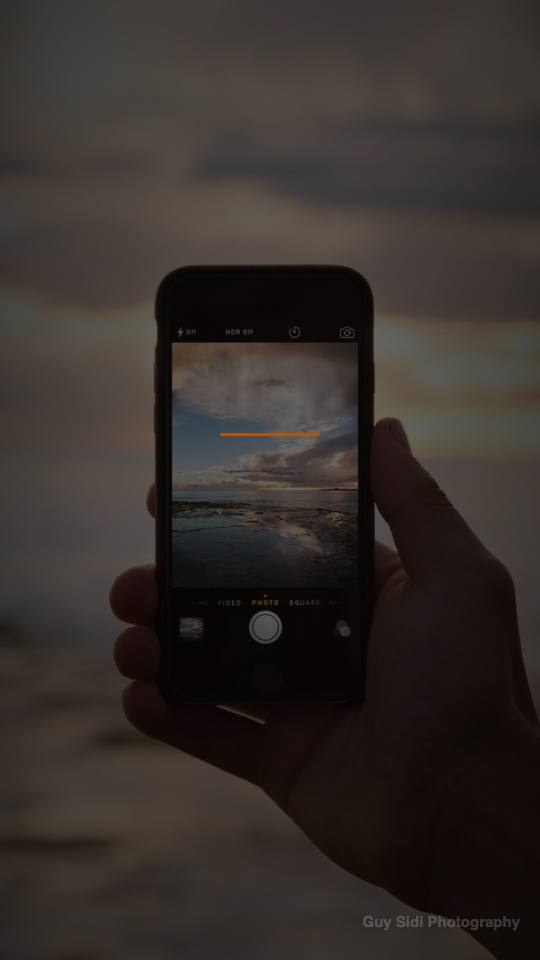
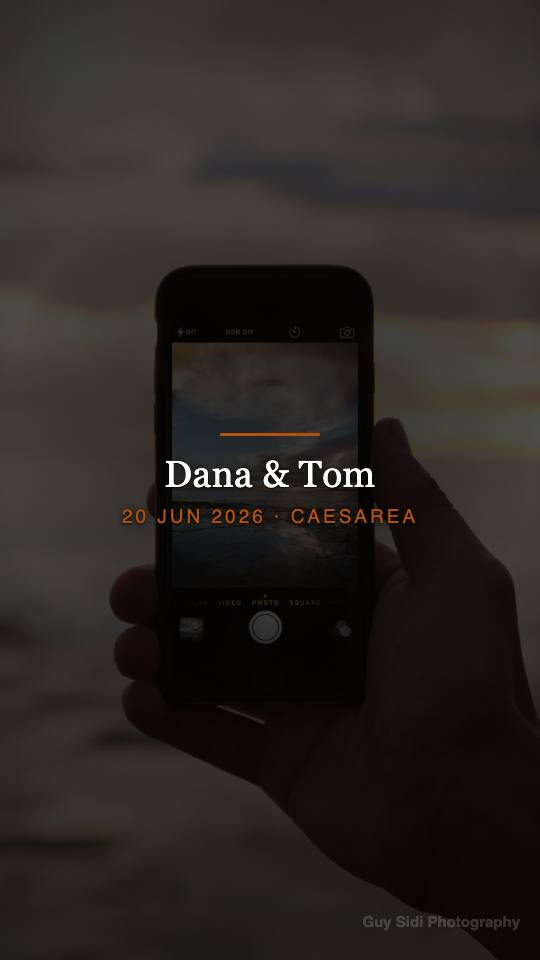
Story Studio: creative-review cycle 2 — fix editorial title/outro not rendering + legibility
Corroborated by 2 of 3 re-reviewers: the editorial (wedding) opening + outro
title was invisible. Root cause: the title's fade-entrance transform is 'none',
so it painted as an in-flow element BELOW the absolutely-positioned cover image
+ scrim (CSS stacking), while a transformed title (cinematic scale) painted
above — that mismatch also explained why the editorial accent line (which has a
transform) showed but the title didn't. Fix: title/subtitle/logo get
position:relative + zIndex; add a strong text-shadow + a darker centered scrim
so titles are legible over any hero photo. Regression test added.

Re-review scores after cycle 1 (before this fix): Corporate 7.2, Concert 7.3
avg across 3 reviewers; Wedding 5.9 (dragged by this title bug). Fix verified
locally: editorial opening now renders 'Dana & Tom' + date clearly.

45 tests pass, tsc + build OK.

Changed region(s): [[0.1778, 0.3125, 0.8296, 0.5938], [0.3556, 0.2188, 0.6519, 0.2812], [0.4741, 0.625, 0.5333, 0.6875]]

diff --git a/gallery-web/story-studio-remotion/StoryStudioVideo.tsx b/gallery-web/story-studio-remotion/StoryStudioVideo.tsx
@@ -291,8 +291,11 @@ const CardLayer: React.FC<{
             style={{
               background:
                 d.align === "center"
-                  ? "radial-gradient(ellipse at center, rgba(0,0,0,0.2) 30%, rgba(0,0,0,0.62) 100%)"
-                  : "linear-gradient(to top, rgba(0,0,0,0.72) 18%, rgba(0,0,0,0.25) 55%, rgba(0,0,0,0.45) 100%)",
+                  ? // Centered (editorial) titles need a darker backing behind
+                    // the CENTER — the old 0.2 center let white type vanish over
+                    // a bright sky. Darken the middle band under the title.
+                    "radial-gradient(ellipse 90% 55% at 50% 45%, rgba(0,0,0,0.62) 0%, rgba(0,0,0,0.4) 55%, rgba(0,0,0,0.66) 100%)"
+                  : "linear-gradient(to top, rgba(0,0,0,0.72) 18%, rgba(0,0,0,0.28) 55%, rgba(0,0,0,0.5) 100%)",
             }}
           />
         </>
@@ -300,11 +303,18 @@ const CardLayer: React.FC<{
       {template === "cinematic-energy" ? <Vignette /> : null}
       {accentEl}
       {card.showLogo && brand.logoUrl ? (
-        <Img src={brand.logoUrl} style={{ maxWidth: 300, maxHeight: 150, marginBottom: 30, objectFit: "contain" }} />
+        <Img src={brand.logoUrl} style={{ position: "relative", zIndex: 2, maxWidth: 300, maxHeight: 150, marginBottom: 30, objectFit: "contain" }} />
       ) : null}
       {card.title ? (
         <div
           style={{
+            // position:relative lifts the title above the absolutely-positioned
+            // cover image + scrim. Without it, a title whose entrance transform
+            // is "none" (editorial fade) paints BELOW the scrim and vanishes,
+            // while a transformed title (cinematic scale) does not — that mismatch
+            // was the "editorial title/outro not rendering" bug.
+            position: "relative",
+            zIndex: 2,
             color: "#fff",
             fontSize: d.titleSize,
             fontWeight: d.titleWeight,
@@ -316,6 +326,8 @@ const CardLayer: React.FC<{
             direction: rtlTitle ? "rtl" : "ltr",
             transform: titleTransform,
             padding: d.align === "center" ? "0 80px" : 0,
+            // Legible over ANY hero photo (bright skies included).
+            textShadow: "0 2px 28px rgba(0,0,0,0.9), 0 1px 4px rgba(0,0,0,0.75)",
           }}
         >
           {card.title}
@@ -324,6 +336,8 @@ const CardLayer: React.FC<{
       {card.subtitle ? (
         <div
           style={{
+            position: "relative",
+            zIndex: 2,
             color: brand.accentHex,
             fontSize: 38,
             marginTop: 22,
@@ -332,6 +346,7 @@ const CardLayer: React.FC<{
             letterSpacing: d.subtitleLetterSpacing,
             textAlign: d.textAlign,
             opacity: appear,
+            textShadow: "0 2px 18px rgba(0,0,0,0.9), 0 1px 3px rgba(0,0,0,0.7)",
           }}
         >
           {card.subtitle}

diff --git a/gallery-web/src/lib/storyStudio/renderContract.test.ts b/gallery-web/src/lib/storyStudio/renderContract.test.ts
@@ -210,6 +210,16 @@ test("music: planHasMusic false when muted / no track / zero volume", () => {
   assert.equal(planHasMusic({ ...base, music: { trackId: "warm", volume: 0, fadeInSec: 0, fadeOutSec: 0, muted: false } }), false);
 });
 
+test("cards: title/subtitle sit above the cover image (stacking-context guard)", () => {
+  // Regression: an in-flow title with transform:none paints BELOW the absolutely
+  // positioned cover image + scrim and vanishes (editorial opening/outro bug).
+  // The title + subtitle must carry position:relative + zIndex to stay on top.
+  const comp = read("story-studio-remotion/StoryStudioVideo.tsx");
+  const titleBlock = comp.slice(comp.indexOf("{card.title ?"), comp.indexOf("{card.subtitle ?"));
+  assert.ok(/position:\s*"relative"/.test(titleBlock) && /zIndex:\s*2/.test(titleBlock), "card title needs position:relative + zIndex");
+  assert.ok(comp.includes("coverSrc") && /textShadow/.test(comp), "cards must have a hero cover + legible text shadow");
+});
+
 test("composition + render honor music (Audio + muted flag)", () => {
   const comp = read("story-studio-remotion/StoryStudioVideo.tsx");
   assert.ok(comp.includes("Audio") && comp.includes("staticFile"), "composition must use <Audio staticFile>");
